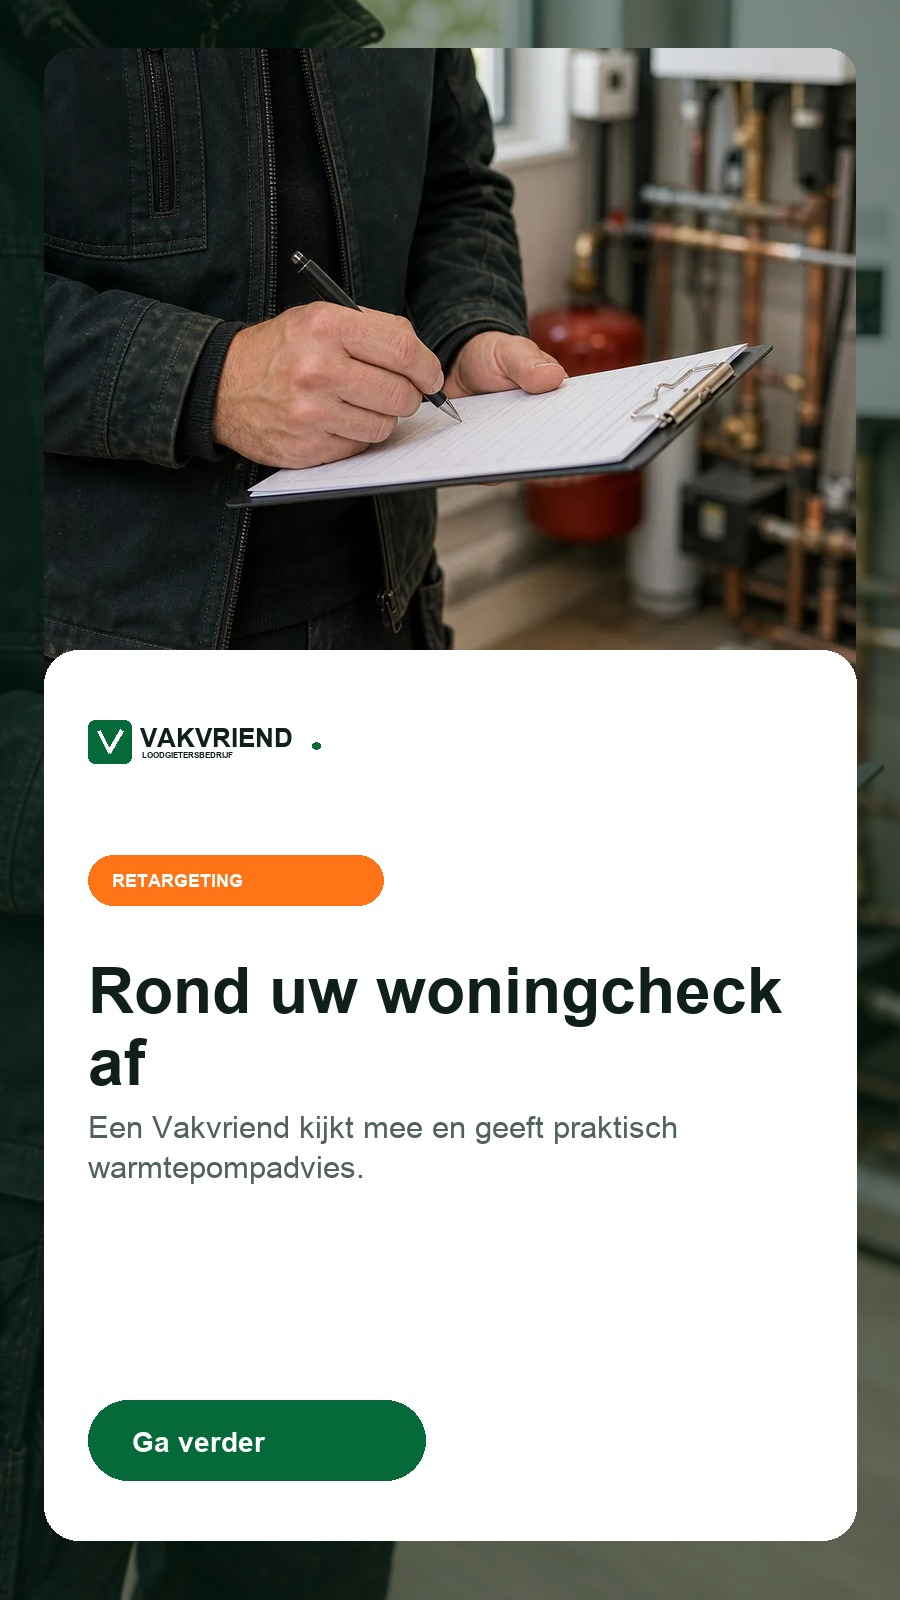
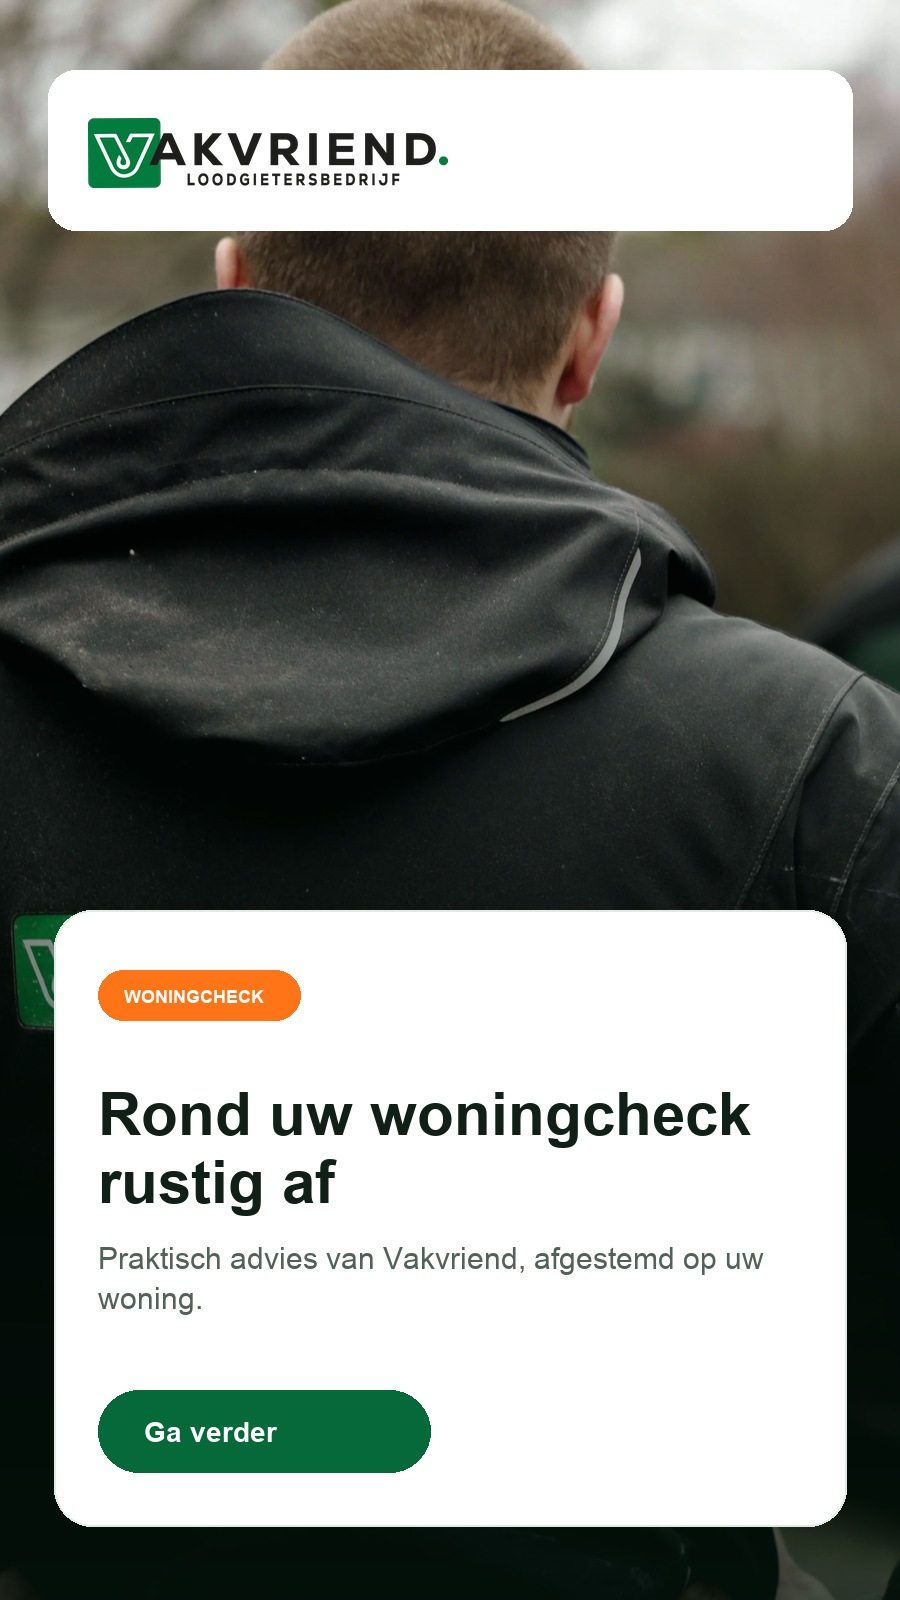
Refresh retargeting ads with real brand assets

diff --git a/assets/ads/retargeting-2026-05-08/copy-en-instellingen.md b/assets/ads/retargeting-2026-05-08/copy-en-instellingen.md
@@ -1,17 +1,26 @@
 # Retargeting advertenties - Vakvriend warmtepomp woningcheck
 
-## Campagne-instelling
-- Campagnetype: Display / Demand Gen retargeting, niet prospecting.
-- Doelgroep: websitebezoekers, formulier gestart maar niet afgerond, Google Ads bezoekers, Analytics-engaged users.
-- Uitsluiten: mensen die lead/conversie al hebben voltooid.
-- CTA-focus: woningcheck afronden, advies bekijken, Vakvriend laten meekijken.
+## Beeldrichting
+Deze set gebruikt echte Vakvriend-foto's van www.vakvriend.nl en het officiële Vakvriend-logo. Geen AI-beelden.
+De advertenties zijn rustiger gemaakt: grote echte foto, heldere kaart, weinig tekst in beeld.
+
+## Doelgroep
+- Websitebezoekers zonder lead
+- Woningcheck gezien maar niet gestart
+- Woningcheck gestart maar niet afgerond
+- Engaged visitors uit GA4 / Google Ads
+
+## Uitsluiten
+- Lead afgerond
+- Bedankt/conversiepagina bezoekers
+- Bestaande klanten indien beschikbaar
 
 ## Korte koppen max 30 tekens
 1. Rond uw woningcheck af
 2. Vakvriend kijkt mee
 3. Welke warmtepomp past?
 4. Praktisch woningadvies
-5. Advies zonder gedoe
+5. Advies zonder omwegen
 6. Merkonafhankelijk advies
 7. ISDE direct meegenomen
 8. Start uw woningcheck
@@ -27,19 +36,11 @@
 
 ## Beschrijvingen max 90 tekens
 1. Start met postcode en huisnummer. U ziet direct welke route logisch is.
-2. Praktisch warmtepompadvies, merkonafhankelijk en zonder harde verkoopdruk.
+2. Praktisch warmtepompadvies, merkonafhankelijk en zonder harde verkooptaal.
 3. Vakvriend rekent subsidie, verbruik en aandachtspunten direct mee.
 4. Laat ons meekijken naar uw woning en ontvang een helder vervolgadvies.
 5. Geen standaard offerte, maar een woningcheck die past bij uw situatie.
 
-## Afbeeldingen
-- rond-woningcheck-af: zachte reminder voor afhakers.
-- welke-warmtepomp-past: technisch vertrouwen en merkonafhankelijk advies.
-- vakvriend-kijkt-mee: herkenbaarheid en lokale service.
-
-## Bestanden
-- liggend: 1200 x 628
-- vierkant: 1200 x 1200
-- staand: 900 x 1600
-- logo vierkant: 1200 x 1200
-- logo liggend: 1200 x 300
+## Advies voor campagne
+Begin met lage frequentie: 2-3 impressies per persoon per dag. Retargeting moet herinneren, niet irriteren.
+Gebruik 14 dagen lidmaatschapsduur voor formulierstarters en 30 dagen voor alle bezoekers.
